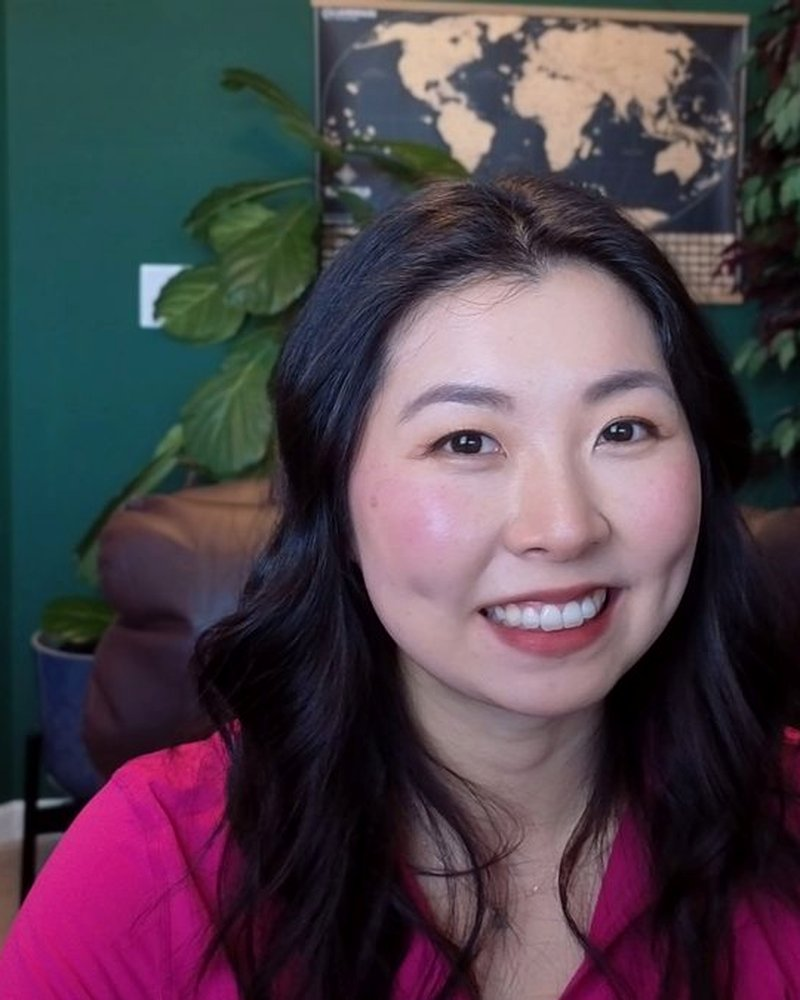
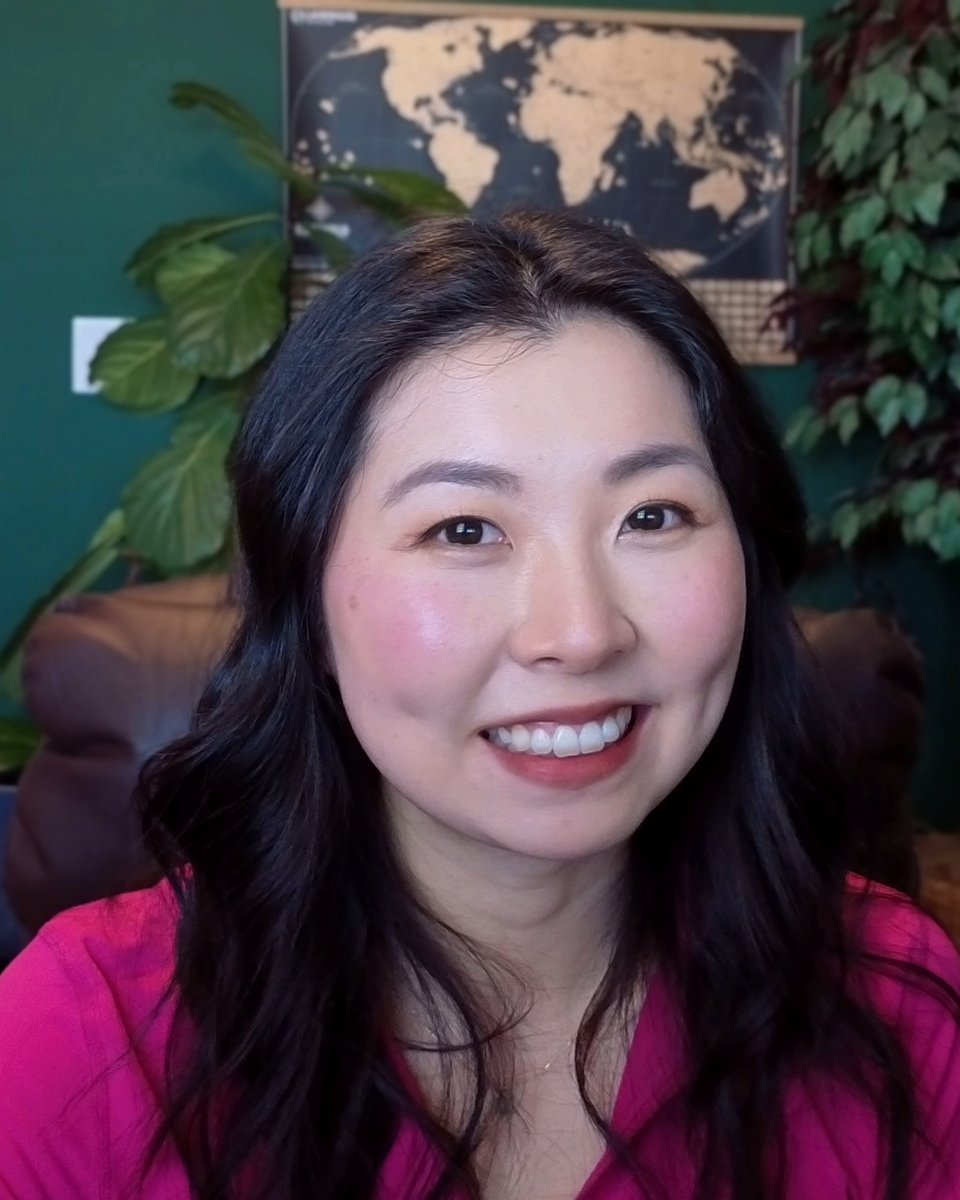
Recenter Erin — crop shifted right to actually catch her face
Previous center crop of the 1920x1080 source took the middle 864px,
which missed Erin (she sits at ~55% from left in the source frame).
Recropped to center on her face position, kept the brightness dial
and color enhancement, upscaled to 960x1200.

Claude-Session: https://claude.ai/code/session_01AgEEnNgvHAf2LsQXhL4SgN

diff --git a/client/src/pages/About.tsx b/client/src/pages/About.tsx
@@ -61,8 +61,8 @@ const coaches = [
     experience: '11+ Years of Experience',
     photo: ERIN_PHOTO,
     photoAlt: 'Erin Chawla, trading coach at Trader Foundation',
-    photoWidth: 800,
-    photoHeight: 1000,
+    photoWidth: 960,
+    photoHeight: 1200,
     photoIsLocal: true,
     philosophy: '"Trading is like dating, choose the best and leave the rest."',
     cardQuote: '"Patience isn\'t boring, it\'s profitable. I only need a few great setups a month."',
